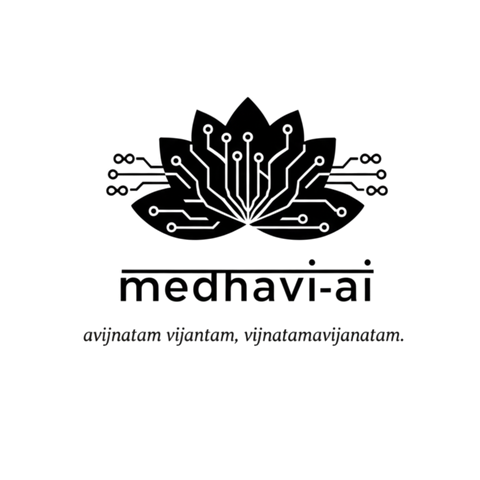
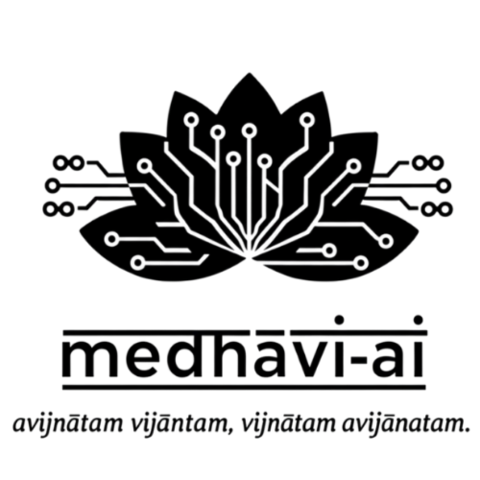
Adjust hero layout: responsive sizing, spacing, and mobile tagline; double CTA gap

Changed region(s): [[0.0938, 0.1562, 0.9375, 0.625], [0.125, 0.6562, 0.9062, 0.8125], [0.0, 0.8438, 1.0, 0.9375]]

diff --git a/style.css b/style.css
@@ -87,18 +87,26 @@ html[data-theme='dark'] .nav-toggle {
 html[data-theme='dark'] .theme-toggle .icon-light { display: none; }
 html[data-theme='dark'] .theme-toggle .icon-dark { display: block; }
 
-/* HERO */
-.hero{display:flex;flex-direction:column;align-items:center;justify-content:center;text-align:center;padding:2.5rem 1rem 3rem;min-height:calc(100vh - var(--header-h));}
+.hero{display:flex;flex-direction:column;align-items:center;justify-content:center;text-align:center;padding:6rem 6rem 6rem;min-height:calc(50vh - var(--header-h));}
 
-.hero .logo{width:100%;max-width:420px;height:auto;border-radius:20px;margin:0 auto 1.25rem auto;display:flex;align-items:center;justify-content:center;background:transparent}
-.hero .logo img{width:100%;height:auto;display:block;object-fit:contain}
+.hero .logo{width:100%;max-width:360px;max-height:320px;height:auto;border-radius:20px;margin:0 auto 0.9rem auto;display:flex;align-items:center;justify-content:center;background:transparent}
+.hero .logo img{width:100%;max-height:260px;height:auto;display:block;object-fit:contain}
 
-.hero h2{font-size:clamp(18px,2.4vw,26px);margin:0 0 .5rem;font-weight:700}
+.hero h2{font-size:clamp(18px,2.2vw,24px);margin:0 0 .5rem;font-weight:700}
 .hero p{margin:0 0 1rem;color:var(--muted)}
 
-.cta{display:flex;gap:.75rem;flex-wrap:wrap;justify-content:center;align-items:center;margin-top:1.25rem}
+/* Hero tagline split into three parts on mobile */
+.hero-tagline{display:inline-flex;align-items:center;gap:.5rem;margin-top:5pt}
+.hero-tagline .tag-line1,.hero-tagline .tag-arrow,.hero-tagline .tag-line3{display:inline}
+
+@media (max-width:600px){
+  .hero-tagline{flex-direction:column;gap:0.25rem}
+  .hero-tagline .tag-arrow{font-size:1.1rem}
+}
+
+.cta{display:flex;gap:1.5rem;flex-wrap:wrap;justify-content:center;align-items:center;margin-top:1.25rem}
 .btn{border:1px solid var(--fg);background:transparent;color:var(--fg);padding:.55rem .9rem;border-radius:8px;font-weight:700;text-decoration:none}
-.cta{display:flex;gap:.75rem;flex-wrap:wrap;justify-content:center;align-items:center;margin:0.1rem auto 0 auto;}
+.cta{display:flex;gap:1.5rem;flex-wrap:wrap;justify-content:center;align-items:center;margin:0.1rem auto 0 auto;}
 .btn.secondary{background:var(--fg);color:var(--bg)}
 
 /* WORKSHOPS */
@@ -166,3 +174,9 @@ footer{border-top:1px solid var(--border-color);padding:2rem 0;margin-top:2rem}
 .mobile-menu{position:fixed;top:var(--header-h);left:0;right:0;background:var(--bg);border-top:1px solid var(--border-color);display:none;padding:1rem 1rem;z-index:1001}
 .mobile-menu.open{display:block}
 .mobile-menu a{display:block;padding:.5rem 0;border-bottom:1px dashed #f1f1f1}
+
+/* Slightly larger hero image for desktop view */
+@media (min-width:1000px){
+  .hero .logo{max-width:420px;max-height:380px;margin-top:-3.5rem}
+  .hero .logo img{max-height:320px}
+}

diff --git a/index.html b/index.html
@@ -47,7 +47,11 @@
             <!-- responsive srcset for hero -->
             <img id="hero-logo" src="assets/hero/medhavi-hero-480-white-1.png" srcset="assets/hero/medhavi-hero-480-white-1.png 1x, assets/hero/medhavi-hero-960-white-1.png 2x" sizes="(max-width:600px) 260px, (max-width:900px) 320px, 420px" alt="Medhāvi-AI logo"/>
           </div>
-          <h2>Shūnyata(0) to Ananta(∞) → Start your AI journey.</h2>
+          <h2 class="hero-tagline">
+            <span class="tag-line1">Shūnyata(0) to Ananta(∞)</span>
+            <span class="tag-arrow">→</span>
+            <span class="tag-line3">Start your AI journey.</span>
+          </h2>
         </div>
       </div>
       <div class="cta">
